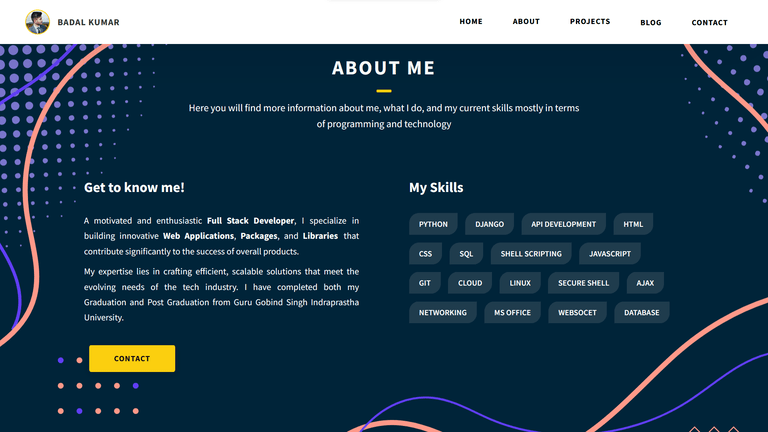
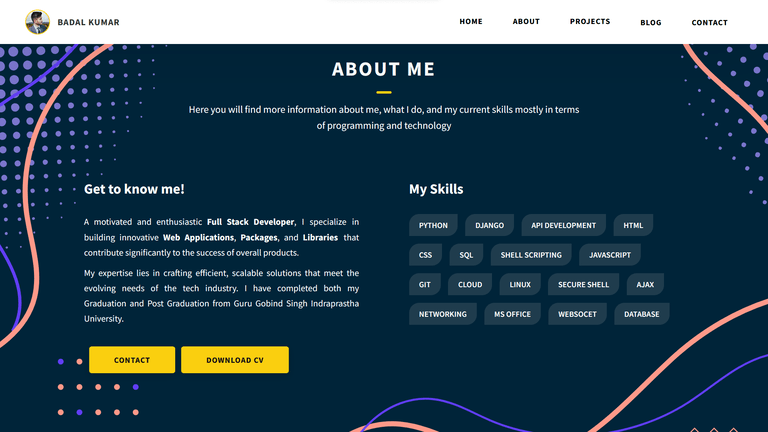
few lil update

diff --git a/badalkumar.html b/badalkumar.html
@@ -130,6 +130,7 @@ permalink: /admin/
                         </p>
                     </div>
                     <a href="https://linkedin.com/in/thebadalkumar" class="btn btn--med btn--theme contact-btn contactM">Contact</a>
+                    <a href="/assets/portfolio/Badal_CV.pdf" class="btn btn--med btn--theme contact-btn contactM">Download CV</a>
                 </div>
                 <div class="about__content-skills">
                     <h3 class="about__content-title text-white">My Skills</h3>
